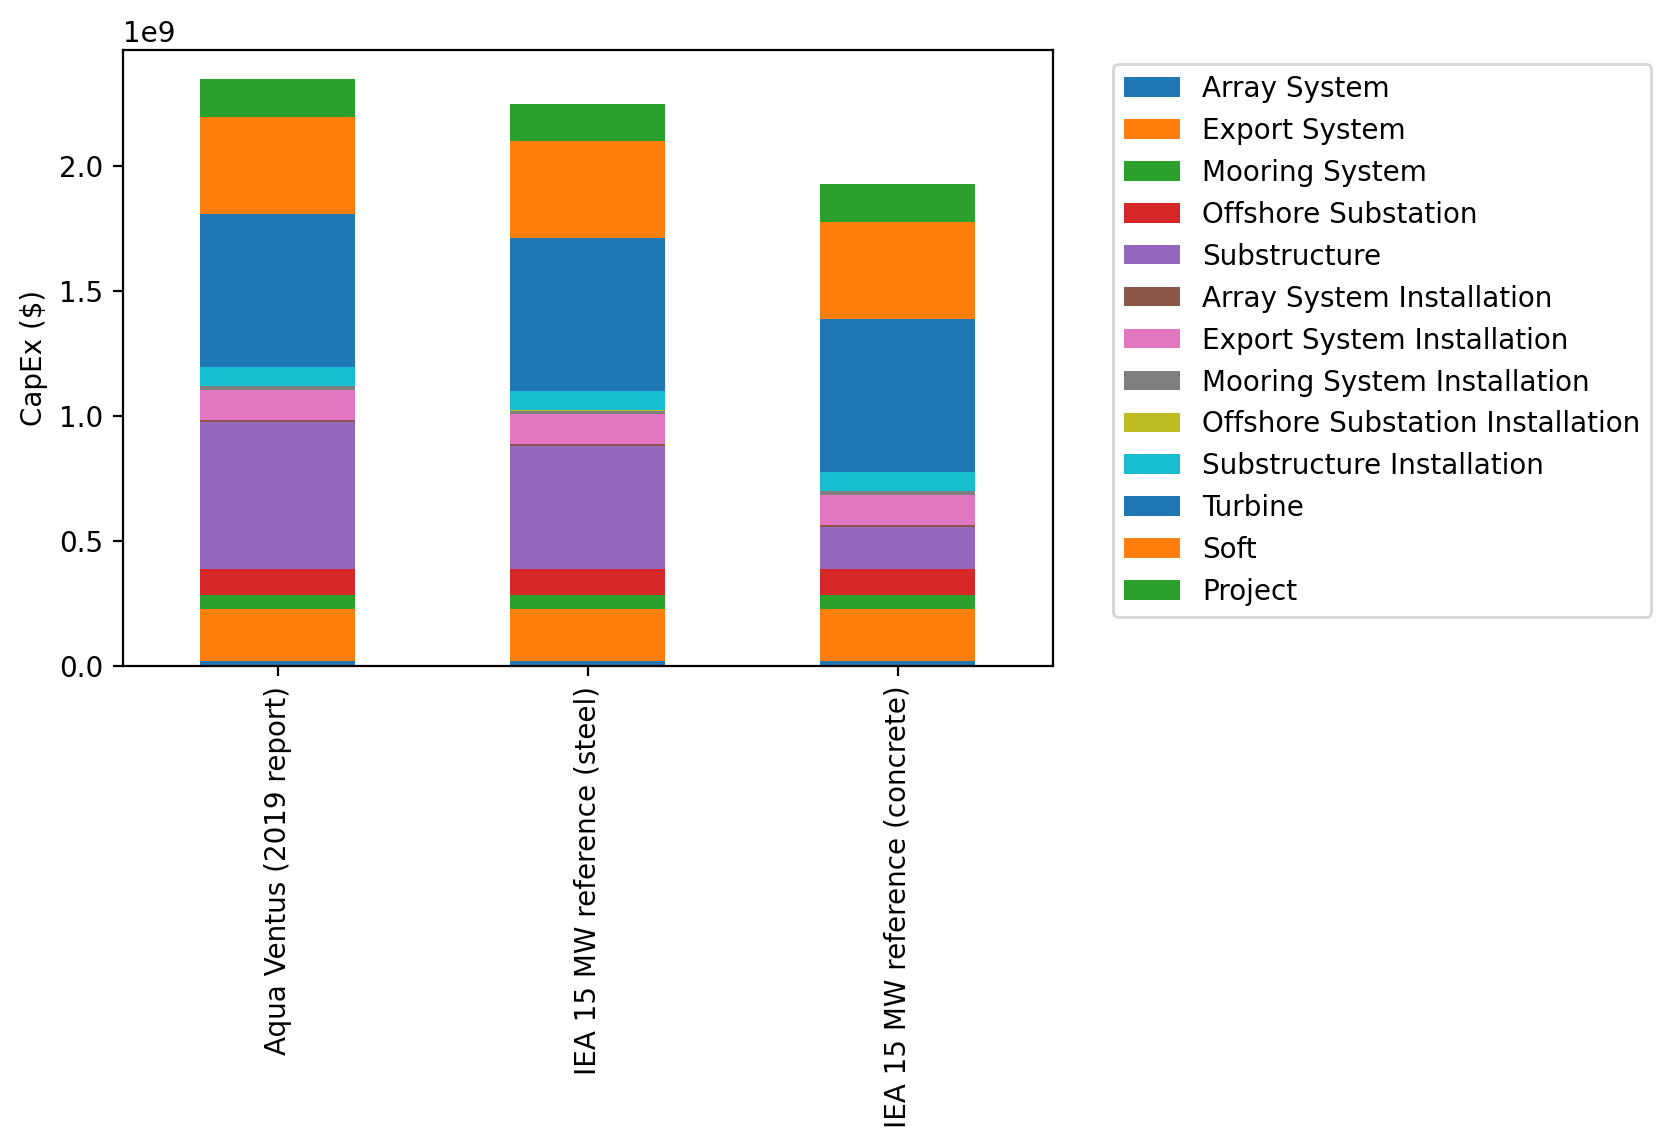
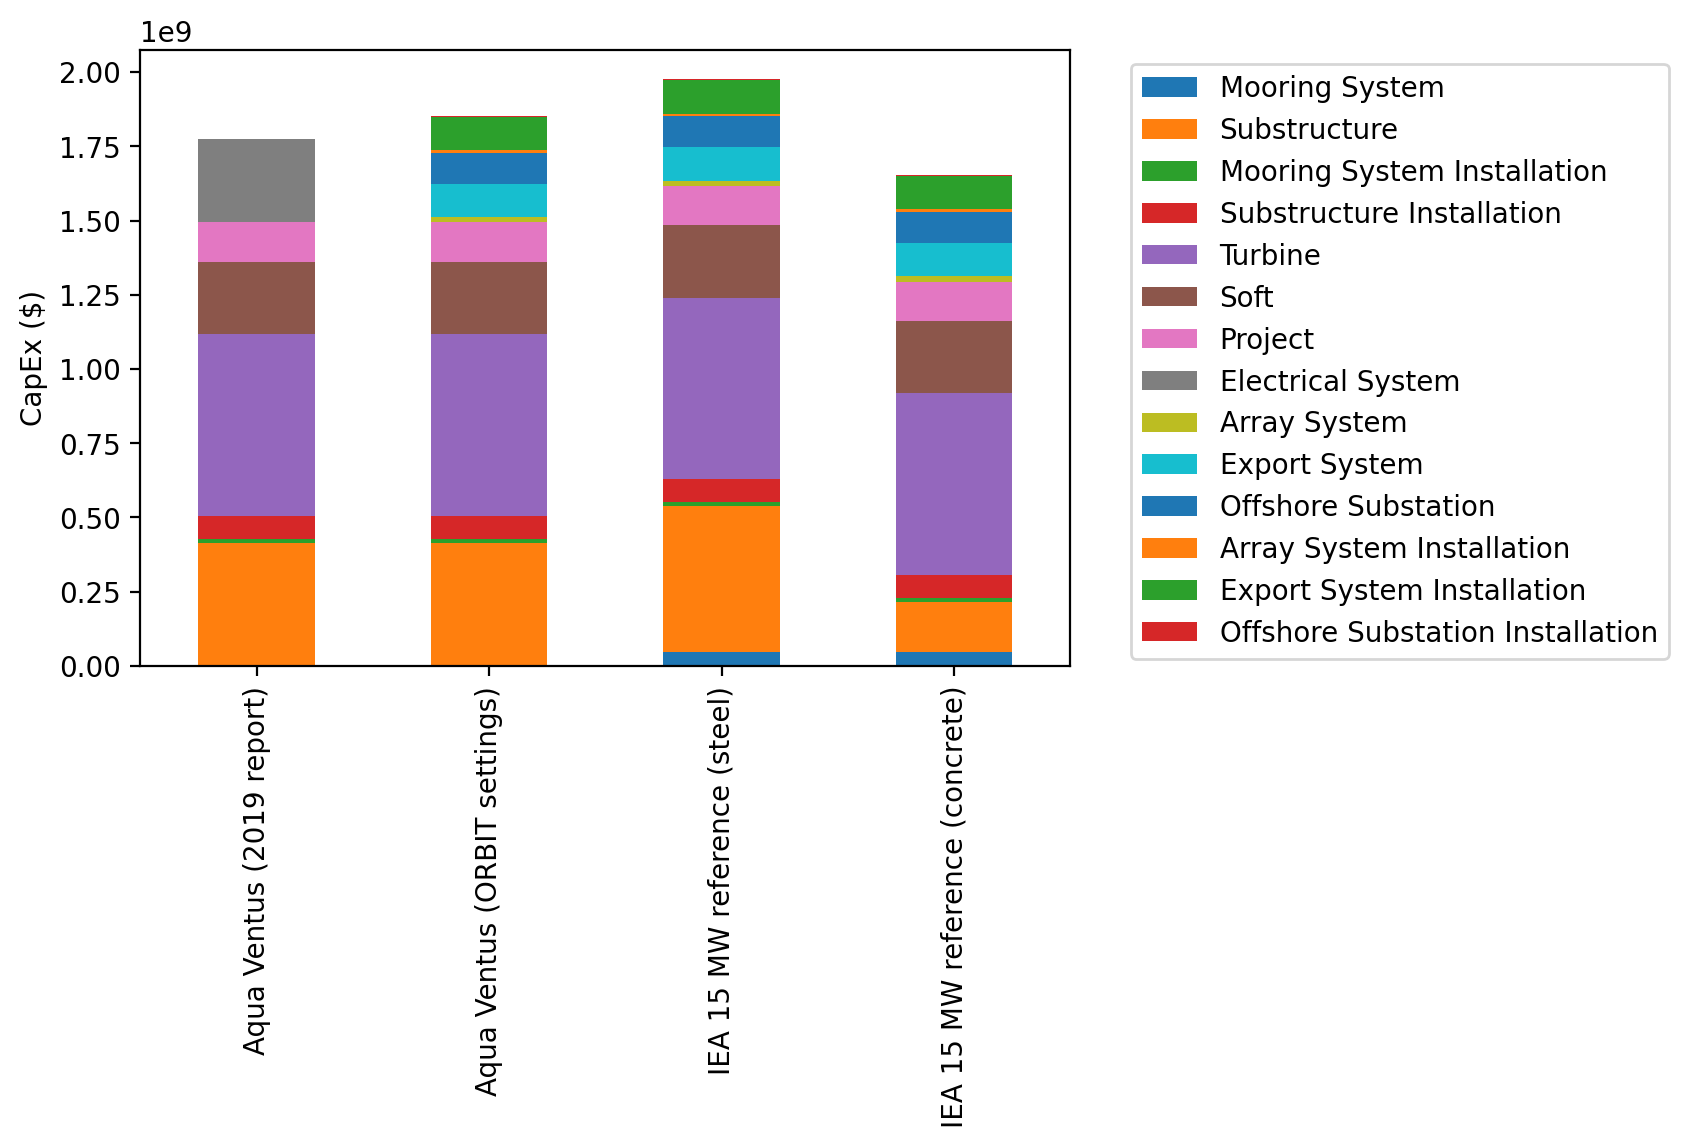
Matched 2019 LCOE report baseline.

diff --git a/run_analysis.py b/run_analysis.py
@@ -18,9 +18,12 @@ from semisub_pontoon_design import CustomSemiSubmersibleDesign
 
 initialize_library("data")
 
-
-TRANSPORT_COSTS = 1e6 / 5000  # $/t
 PROJECT_kW = 600 * 1000
+AQUA_VENTUS_SUB_COSTS = 690 * PROJECT_kW # $
+AQUA_VENTUS_MOOR_COSTS = 0
+AQUA_VENTUS_ELEC_COSTS = 466 * PROJECT_kW # $
+TRANSPORT_COSTS = 1e6 / 5000  # $/t
+
 WEATHER_FILES = {
     "US_east_coast": "data/weather/vineyard_2014_onward.csv",
     # "US_east_coast": "data/weather/vineyard_wind_weather_1983_2017_orbit.csv",
@@ -65,7 +68,7 @@ def run():
 
             _times[yr] = project.project_time
             test_capex_breakdown(name, project)
-            total, bos, breakdown = append_transport_capex(name, project)
+            total, bos, breakdown = append_capex(name, project)
 
         print(f"\tRan {yrs} simulations")
 
@@ -95,9 +98,9 @@ def run():
     times.to_csv("outputs/installation_times.csv")
 
 
-def append_transport_capex(name, project):
+def append_capex(name, project):
     """
-    Ability to add transportation Capex for importing international components
+    Ability to add Capex components (ie for importing international components or for user-defined costs)
     :param name:
     :param project:
     :return:
@@ -110,11 +113,31 @@ def append_transport_capex(name, project):
         breakdown["Substructure Transportation"] = cost
         total = project.total_capex + cost
         bos = project.bos_capex + cost
+    elif "2019 Aqua Ventus" in name:
+        breakdown = deepcopy(project.capex_breakdown)
 
+        bos = project.bos_capex - breakdown['Substructure'] - breakdown['Mooring System'] + AQUA_VENTUS_SUB_COSTS + AQUA_VENTUS_MOOR_COSTS + AQUA_VENTUS_ELEC_COSTS
+        
+        total = project.total_capex - breakdown['Substructure'] - breakdown['Mooring System'] + AQUA_VENTUS_SUB_COSTS + AQUA_VENTUS_MOOR_COSTS + AQUA_VENTUS_ELEC_COSTS
+
+        breakdown["Substructure"] = AQUA_VENTUS_SUB_COSTS
+        breakdown["Mooring System"] = AQUA_VENTUS_MOOR_COSTS
+        breakdown["Electrical System"] = AQUA_VENTUS_ELEC_COSTS
+
+    elif "ORBIT Aqua Ventus" in name:
+        breakdown = deepcopy(project.capex_breakdown)
+
+        bos = project.bos_capex - breakdown['Substructure'] - breakdown['Mooring System'] + AQUA_VENTUS_SUB_COSTS + AQUA_VENTUS_MOOR_COSTS 
+        
+        total = project.total_capex - breakdown['Substructure'] - breakdown['Mooring System'] + AQUA_VENTUS_SUB_COSTS + AQUA_VENTUS_MOOR_COSTS
+
+        breakdown["Substructure"] = AQUA_VENTUS_SUB_COSTS
+        breakdown["Mooring System"] = AQUA_VENTUS_MOOR_COSTS
+        
     else:
         breakdown = deepcopy(project.capex_breakdown)
-        total = project.total_capex
-        bos = project.bos_capex
+        total = project.total_capex 
+        bos = project.bos_capex 
 
     return total, bos, breakdown
 

diff --git a/configs.py b/configs.py
@@ -14,9 +14,9 @@ from common import base
 US_east_coast = {
     # All placeholder values for now
     "site": {
-        "depth": 150,
-        "distance": 100,
-        "distance_to_landfall": 100
+        "depth": 100,
+        "distance": 52,
+        "distance_to_landfall": 52
     },
     "port": {
         "monthly_rate": 1e6,
@@ -43,7 +43,21 @@ US_east_coast = {
 }
 
 # Define specific scenario inputs
-AquaVentus_comp = {
+AquaVentus_match = {
+    **base,
+    **US_east_coast,
+    # "turbine": "6MW",
+    "design_phases": [
+        "MooringSystemDesign",
+        "SemiSubmersibleDesign",
+    ],
+    "install_phases": {
+        "MooredSubInstallation": ("MooringSystemInstallation", 0.5),
+        "MooringSystemInstallation": 0,
+    },
+}
+
+AquaVentus_orbit = {
     **base,
     **US_east_coast,
     # "turbine": "6MW",
@@ -51,10 +65,16 @@ AquaVentus_comp = {
         'ArraySystemDesign',
         'ExportSystemDesign',
         "MooringSystemDesign",
-        'OffshoreSubstationDesign',
         "SemiSubmersibleDesign",
+        'OffshoreSubstationDesign'
     ],
-
+    "install_phases": {
+        "MooredSubInstallation": ("MooringSystemInstallation", 0.5),
+        "MooringSystemInstallation": 0,
+        "ArrayCableInstallation": 0,
+        "ExportCableInstallation": 0,
+        "FloatingSubstationInstallation": 0
+    },
 }
 
 IEA15MW_steel = {
@@ -67,6 +87,13 @@ IEA15MW_steel = {
         'OffshoreSubstationDesign',
         "CustomSemiSubmersibleDesign",
     ],
+    "install_phases": {
+        "MooredSubInstallation": ("MooringSystemInstallation", 0.5),
+        "MooringSystemInstallation": 0,
+        "ArrayCableInstallation": 0,
+        "ExportCableInstallation": 0,
+        "FloatingSubstationInstallation": 0
+    },
     "semisubmersible_design": {
         "column_diameter": 12.5,
         "wall_thickness": 0.065,
@@ -92,6 +119,13 @@ IEA15MW_concrete = {
         'OffshoreSubstationDesign',
         "CustomSemiSubmersibleDesign",
     ],
+    "install_phases": {
+        "MooredSubInstallation": ("MooringSystemInstallation", 0.5),
+        "MooringSystemInstallation": 0,
+        "ArrayCableInstallation": 0,
+        "ExportCableInstallation": 0,
+        "FloatingSubstationInstallation": 0
+    },
     "semisubmersible_design": {
         "column_diameter": 12.5,
         "wall_thickness": 0.065,
@@ -110,7 +144,8 @@ IEA15MW_concrete = {
 
 
 configs = {
-    "Aqua Ventus": AquaVentus_comp,
+    "2019 Aqua Ventus": AquaVentus_match,
+    "ORBIT Aqua Ventus": AquaVentus_orbit,
     "IEA15MW (Steel)": IEA15MW_steel,
     "IEA15MW (Concrete)": IEA15MW_concrete
     # "US_10MW_shallow": us_15MW_shallow,

diff --git a/create_plots.py b/create_plots.py
@@ -13,7 +13,8 @@ import matplotlib.pyplot as plt
 
 
 SCENARIO_MAP = {
-    'Aqua Ventus': 'Aqua Ventus (2019 report)',
+    '2019 Aqua Ventus': 'Aqua Ventus (2019 report)',
+    'ORBIT Aqua Ventus': 'Aqua Ventus (ORBIT settings)',
     'IEA15MW (Steel)': 'IEA 15 MW reference (steel)',
     'IEA15MW (Concrete)': 'IEA 15 MW reference (concrete)'
 }

diff --git a/common.py b/common.py
@@ -133,11 +133,5 @@ base = {
     # },
 
     # ORBIT Configuration
-    "install_phases": {
-        'ArrayCableInstallation': 0,
-        'ExportCableInstallation': 0,
-        "MooredSubInstallation": ("MooringSystemInstallation", 0.5),
-        "MooringSystemInstallation": 0,
-        'FloatingSubstationInstallation': 0,
-    },
+
 }
